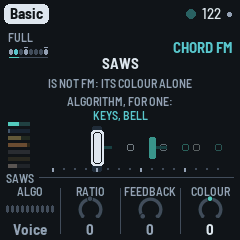
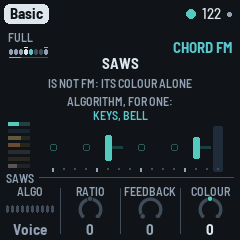
1.4.0: six parts on white 1-6 in the manual (the Arrangement page's keys: the parts, the gap, the moves, the hats' throw on black 6; the table of them; the Mix gone, each part's Level its strip's; the Kick and the Hats strips apart, their levels, the kick's sends from 0, its Low cut leaving the rumb

diff --git a/web/emu/index.html b/web/emu/index.html
@@ -138,7 +138,7 @@ kbd { font: 600 .85em ui-monospace, Menlo, monospace; background: var(--card); b
 <section class="help" aria-label="How to play it">
   <div class="knobs">
     <h2>Pages and knobs</h2>
-    <p>One page a layer, each on its own button. The levels are on <b>OCT−</b> / <b>OCT+</b> (on a layer's page: 5 a press, held on; both together, quickly: the layer muted or back) and on the Arrangement page's mix (SEL, white 6 held), whose meters show every part's level. <b>SELECT</b> is the DJ filter, on every page. The pages, as their buttons sit on the panel: Dub (FX), Chord (ENV), Bass (LFO), Setup (GLO), Form (HOME), Noise (SAVE), Pings (ARP), Drums (SEQ); the page's name is top right. A button with one page stays on it pressed again; one with several steps through them. Each layer's first page is its part (what it plays, and its <b>Vary</b>: how often that changes, Evolve over it); its button pressed again opens its <b>voice page</b>: four knobs that shape its sound, most 0 in the middle (the voice as it is), −50 to +50 (the chord's Attack and the pings' Bend 0 to 100, from the voice's own); the drums have two, Kick and Hats. A third press opens its <b>FM page</b>: the algorithm (drawn on the screen), the upper operators' ratio, the feedback (on an FM voice); the chord's has its <b>Colour</b> too and the bass's its <b>Bite</b>, on every voice. The chord's four pages: <b>Chord</b> (Density, Throws, Change, Vary), <b>Chord voice</b> (Cutoff, Reso, Attack, Decay), <b>Chord FM</b> (Algo, Ratio, Feedback, Colour) and <b>Chord LFO</b>, its slow movement: a wave in time with the music (Depth; Rate, 1 to 32 bars; Shape) and <b>Drift</b>, a slow random wander under it, like a hand riding the filter (the screen draws the path over the last 16 bars); ALGORITHM there picks where it goes, its <b>Destination</b>: Cutoff, Reso or Colour, the knob it moves showing it. The noise has one too (SAVE a third time); the bass and the pings have none. A knob centred on 0 stops there on its way through (three clicks to leave it). On a layer's page, <b>ALGORITHM</b> changes its voice (the chord: Saws, Keys, Organ, Pad, Bell, Tonewheel, Noise; the pings: Blip, Marimba, Glass, Wood, Drop; the bass: Sub, Punch, Rubber, Pluck, Growl; the drums' kit: Tight, Deep, Punch, Soft, Dusty). Each piece remembers its own settings.</p>
+    <p>One page a layer, each on its own button. The levels are on <b>OCT−</b> / <b>OCT+</b> (on a layer's page: 5 a press, held on; both together, quickly: the layer muted or back) and on the Arrangement page's channel strips (SEL, a part's white key held: its Level), whose meters show every part's level. <b>SELECT</b> is the DJ filter, on every page. The pages, as their buttons sit on the panel: Dub (FX), Chord (ENV), Bass (LFO), Setup (GLO), Form (HOME), Noise (SAVE), Pings (ARP), Drums (SEQ); the page's name is top right. A button with one page stays on it pressed again; one with several steps through them. Each layer's first page is its part (what it plays, and its <b>Vary</b>: how often that changes, Evolve over it); its button pressed again opens its <b>voice page</b>: four knobs that shape its sound, most 0 in the middle (the voice as it is), −50 to +50 (the chord's Attack and the pings' Bend 0 to 100, from the voice's own); the drums have two, Kick and Hats. A third press opens its <b>FM page</b>: the algorithm (drawn on the screen), the upper operators' ratio, the feedback (on an FM voice); the chord's has its <b>Colour</b> too and the bass's its <b>Bite</b>, on every voice. The chord's four pages: <b>Chord</b> (Density, Throws, Change, Vary), <b>Chord voice</b> (Cutoff, Reso, Attack, Decay), <b>Chord FM</b> (Algo, Ratio, Feedback, Colour) and <b>Chord LFO</b>, its slow movement: a wave in time with the music (Depth; Rate, 1 to 32 bars; Shape) and <b>Drift</b>, a slow random wander under it, like a hand riding the filter (the screen draws the path over the last 16 bars); ALGORITHM there picks where it goes, its <b>Destination</b>: Cutoff, Reso or Colour, the knob it moves showing it. The noise has one too (SAVE a third time); the bass and the pings have none. A knob centred on 0 stops there on its way through (three clicks to leave it). On a layer's page, <b>ALGORITHM</b> changes its voice (the chord: Saws, Keys, Organ, Pad, Bell, Tonewheel, Noise; the pings: Blip, Marimba, Glass, Wood, Drop; the bass: Sub, Punch, Rubber, Pluck, Growl; the drums' kit: Tight, Deep, Punch, Soft, Dusty). Each piece remembers its own settings.</p>
     <div class="pages">
       <div>
         <h3>Form <span>HOME</span></h3>
@@ -202,7 +202,7 @@ kbd { font: 600 .85em ui-monospace, Menlo, monospace; background: var(--card); b
       <li><b>Keys</b> are the scale: each one adds or removes its note. The root stays. A lit key (a pressed one, to a screen reader) is in the scale.</li>
       <li><b>PLAY</b> plays / rests. <b>REC</b> tapped: dub hold, the echo and the cloud repeat what they hold; held: the <b>effects grid</b>, sixteen effects on the white keys (echo: Throw, Time x2, Tape stop, Swell; filter: Low, High, Wah, Phone; space: Verb, Crash, Freeze, Wash; rhythm: Stutter, Gate, Siren, Riser). <b>EDIT</b> a tap: the Chords page; held: the next chord, on the next bar; held on: new chords. Every long press says what it did on a card in the middle.</li>
       <li><b>SELECT</b> the DJ filter, on every page (left shut, right open, Off in the middle); with <b>HOME</b> held, the tempo. <b>ALGORITHM</b> on a layer's page its voice, on the Chord LFO page its Destination (Cutoff, Reso, Colour), on the Chords page the walk (Home, Wander, Free), elsewhere the screen (ripples, scope, spectrum); the mode is on the Key page (HOME again); <b>PRESETS</b> the piece (each remembers how you left it).</li>
-      <li><b>SEL</b> the Arrangement page: the screen a desk's meters, a row a part (the chord, the pings, the bass, the drums, the noise) and the master, each its level's notch on it, a mute dark, a solo dimming the rest, the duck's gain reduction under the master (a red <b>!</b> in the header, on any page, while the master clips); the knobs <b>Energy</b> (the pings, shaker and stabs thinner or busier), <b>Mixer</b> (grey: to come), <b>Wet</b> (the whole music dry, or drowned in the echo), Energy and Wet 0 in the middle, and <b>Duck</b> (how far each beat pushes the rest down, the piece's own); hold white 6 (the slowly blinking key) and they are the mix (chord, pings, bass, drums). The white keys 1–5, a tap, mute and bring back the chord, pings, bass, kick and hats (their levels kept: the same mutes as OCT− + OCT+); held, they are a part's <b>channel strip</b> (the chord, the pings, the bass, the drums, the noise, as the meters' rows): <b>Level</b>, <b>Echo</b> send, <b>Plate</b> send (50 as the piece sends, 0 none, 100 twice) and <b>Low cut</b> (a gentle high-pass before the sends, off at 0), and the black keys 1–5 above them solo them; white 7–11, held, throw every stab into the echo, push the filter open, shut it, drop the floor (the kick and the bass), push the echo. The keys that do something are lit. A page's button leaves it: the keys are the scale again (the mutes and solos stay). Hold SEL: <b>Lock</b>, each phrase keeping the kick, the drums' and the bass's plan and the noise's groove (hold again: off).</li>
+      <li><b>SEL</b> the Arrangement page: the screen a desk's meters, a row a part (the chord, the pings, the bass, the kick, the hats, the noise) and the master, each its level's notch on it, a mute dark, a solo dimming the rest, the duck's gain reduction under the master (a red <b>!</b> in the header, on any page, while the master clips); the knobs <b>Energy</b> (the pings, shaker and stabs thinner or busier), <b>Mixer</b> (grey: to come), <b>Wet</b> (the whole music dry, or drowned in the echo), Energy and Wet 0 in the middle, and <b>Duck</b> (how far each beat pushes the rest down, the piece's own). The white keys 1–6, a tap, mute and bring back the chord, pings, bass, kick, hats and noise (their levels kept: the same mutes as OCT− + OCT+); held, they are a part's <b>channel strip</b> (as the meters' rows): <b>Level</b>, <b>Echo</b> send, <b>Plate</b> send (50 as the piece sends, 0 none, 100 twice; the kick's from 0) and <b>Low cut</b> (a gentle high-pass before the sends, off at 0), and the black keys 1–5 solo the chord, pings, bass, kick and hats; black 6, held, throws the hats (with the rim and the clap) into the echo, the kick never; white 7 is dark, the gap; white 8–12, held, throw every stab into the echo, push the filter open, shut it, drop the floor (the kick and the bass), push the echo. The keys that do something are lit. A page's button leaves it: the keys are the scale again (the mutes and solos stay). Hold SEL: <b>Lock</b>, each phrase keeping the kick, the drums' and the bass's plan and the noise's groove (hold again: off).</li>
       <li><b>OCT−</b> / <b>OCT+</b> on a layer's page (Chord, Pings, Bass, Drums, Noise, and their other pages) its level, 5 a press (held: on); both together and let go within a second, the layer muted or back, its level kept (as the Arrangement page's white 1–5; held 5 s on the FM-1: the update mode). Elsewhere they do nothing. <b>SAVE</b> the Noise page (again: Noise voice; again: Noise LFO; held: a nudge to the noise); <b>GLO</b> held saves (held on: the piece back to its recipe).</li>
       <li>Hold a layer's button (ENV, ARP, LFO, SEQ) for half a second: a <b>nudge</b>, its sound a small step somewhere new, pulled back to the piece's (with a mouse: <kbd>Shift</kbd>-click to hold it, click again to let go).</li>
     </ul>
@@ -338,7 +338,7 @@ function hit(c, cls, attrs, parent = controls) {
 }
 // what each control does (the Buttons list below says the same); a page button's light is its page, PLAY's
 // playing, REC's dub hold: those are toggle buttons (aria-pressed), the others plain ones
-const TIP = { FX: "The Dub page: the echo and the plate; again, the Echo page (Blur, Tone, Width, Size).", SEL: "The Arrangement page: every part's level on a meter; the knobs are Energy, Mixer (to come), Wet and Duck (hold white 6: the mix); the white keys 1 to 5 mute the layers (held: that part's channel strip, its Level, Echo, Plate and Low cut), the black keys 1 to 5 solo them, and white 7 to 11, held, make the dub moves. Held: Lock, the groove kept phrase after phrase.", ENV: "The Chord page (Density, Throws, Change, Vary); again, Chord voice (Cutoff around the piece's own, Reso, Attack, Decay); again, Chord FM (Algo, Ratio, Feedback, Colour); again, Chord LFO (Depth, Rate, Shape, Drift; ALGORITHM its Destination).", LFO: "The Bass page (Groove, Vary, Density, Fifth); again, Bass voice (Octave, Shape, Gate, Glide); again, Bass FM (Algo, Ratio, Feedback, Bite).", EDIT: "A tap: the Chords page, eight slots (KNOB 1 the slot, the keys its root, KNOB 2 its kind, KNOB 3 its type, KNOB 4 Play: Endless, the walk writing slot 8 as they move up, or Loop, the eight in turn). Held: the next chord.",
+const TIP = { FX: "The Dub page: the echo and the plate; again, the Echo page (Blur, Tone, Width, Size).", SEL: "The Arrangement page: every part's level on a meter; the knobs are Energy, Mixer (to come), Wet and Duck; the white keys 1 to 6 mute the parts (the chord, pings, bass, kick, hats, noise; held: that part's channel strip, its Level, Echo, Plate and Low cut), the black keys 1 to 5 solo them, black 6 held throws the hats into the echo, white 7 is the gap, and white 8 to 12, held, make the dub moves. Held: Lock, the groove kept phrase after phrase.", ENV: "The Chord page (Density, Throws, Change, Vary); again, Chord voice (Cutoff around the piece's own, Reso, Attack, Decay); again, Chord FM (Algo, Ratio, Feedback, Colour); again, Chord LFO (Depth, Rate, Shape, Drift; ALGORITHM its Destination).", LFO: "The Bass page (Groove, Vary, Density, Fifth); again, Bass voice (Octave, Shape, Gate, Glide); again, Bass FM (Algo, Ratio, Feedback, Bite).", EDIT: "A tap: the Chords page, eight slots (KNOB 1 the slot, the keys its root, KNOB 2 its kind, KNOB 3 its type, KNOB 4 Play: Endless, the walk writing slot 8 as they move up, or Loop, the eight in turn). Held: the next chord.",
   GLO: "The Setup page. Held: saves all eight pieces; held on: the piece back to its recipe.", HOME: "The Form page; again, the Key page (tempo, root, mode, swing). Held on (1.5 s): a shake of everything. Hold it and turn SELECT for the tempo.", SAVE: "The Noise page: Density, Vary; ALGORITHM its character. Again: Noise voice (Air, Tone, Decay, Width); again: Noise LFO (Depth, Rate, Shape, Drift). Held: a nudge to the noise; held on: a shake.",
   ARP: "The Pings page (Density, Vary, Cloud); again, Pings voice (Octave, Tone, Length, Bend); again, Pings FM (Algo, Ratio, Feedback, Upper).", SEQ: "The Drums page (Kick, Hits, Vary). Again: Kick (Tune, Length, Punch, Rumble); again: Hats (Level, Tone, Length); again: the Pattern page (five lanes, sixteen steps on the white keys).", PLAY: "Play or rest.", REC: "Tap: dub hold (the echo and the cloud repeat what they hold; the chord holds). Hold: the effects grid, played on the white keys.",
   "OCT-": "On a layer's page, its level down (held: on). With OCT+, quickly: the layer muted or back.", "OCT+": "On a layer's page, its level up (held: on). With OCT-, quickly: the layer muted or back.", SELECT: "The DJ filter, on every page: left shut, right open, Off in the middle. With HOME held, the tempo.",

diff --git a/docs/MANUAL.md b/docs/MANUAL.md
@@ -105,15 +105,15 @@ The drawing at the top shows them all; here they are in more detail.
 | PLAY | Play / rest. DUB-1 starts playing by itself when it's switched on. At rest, the echo's feedback eases under 90% so its tails die away, the reverb rings out and the noise fades. Playing again starts from the first bar of a phrase. Lit while playing. |
 | REC | A tap: **dub hold**: the echo stops listening and repeats what it holds, sample for sample, for ever; the reverb stops listening too and rings on; the chord doesn't move. The stabs, pings and drums go on, dry, above it. Tap again to let go. Lit while held. Held: the **effects grid** (below). |
 | EDIT | A tap: the **Chords page** (below): the eight chords coming, to see and change (again, it stays). Held (half a second): the next chord, at the start of the next bar (at once while resting; in dub hold, once you let go); a card says NEXT CHORD until the chord changes. Held on (1.5 s): **new chords**, the walk's all walked again (yours, the gaps and the one playing kept); a red card, NEW CHORDS. |
-| SEL | A tap: the **Arrangement page** (PERFORM's until 1.4.0): the screen shows each part's level on a desk's meters, the knobs are Energy, Mixer (to come), Wet and Duck, and the keys stop being the scale: they mute and solo the layers, make the dub moves, and white 6 held puts the mix on the knobs (see below). Again, it stays; a page's button or SELECT leaves it. Lit while on. **Held** (half a second), on any page: **Lock** on or off (below). |
+| SEL | A tap: the **Arrangement page** (PERFORM's until 1.4.0): the screen shows each part's level on a desk's meters, the knobs are Energy, Mixer (to come), Wet and Duck, and the keys stop being the scale: they mute and solo the parts (white 1–6 held: a part's channel strip), make the dub moves and throw the hats (see below). Again, it stays; a page's button or SELECT leaves it. Lit while on. **Held** (half a second), on any page: **Lock** on or off (below). |
 | HOME | The **Form** page (Dub until 1.4.0): how the piece unfolds (Energy, Evolve, Motion). Again: the Key page (tempo, root, mode, swing), and again back to Form; HOME blinks on the Key page. Held on for 1.5 s (nothing turned meanwhile): **a shake of everything**, the chord, the pings, the bass, the drums and the noise at once ("SHAKE ALL"), the page kept; again and again, to explore until something sounds right. Held with SELECT turned: the tempo. |
 | ENV · ARP · LFO · SEQ | The layers' pages: Chord, Pings, Bass, Drums, each its part (see [The pages](#8-the-pages)). Again: the layer's voice page (**Chord voice**, **Pings voice**, **Bass voice**; the drums' **Kick**), then its FM page or, for the drums, the **Hats** page and then the Pattern page, then back. The chord has one more: after its FM page (for every chord voice: its Colour is there), the **Chord LFO** page, then back. Held (half a second): a **nudge** to the layer's sound; held on (1.5 s): a **shake** (below). |
 | FX · GLO | The **Dub** page, the echo and the plate (Space until 1.4.0; FX again: the **Echo page**, FX blinking; again, back); the Setup page, for what holds for every piece (GLO again, it stays). The lit button shows the page. FX held: a nudge to the space; held on: a shake (a new echo time). **GLO held** (half a second, then let go): **saves** all eight pieces (a card, SAVED); held on (1.5 s): the piece back to its recipe (a red card, RESET). |
 | SELECT | **The DJ filter**, on every page (its only place since 1.4.0's Chord pages; the Arrangement page's Open and Shut keys push on top of it): left shuts it (a low-pass, under water), right opens it (a high-pass, thin and bright), Off in the middle, where it stops on its way through (three clicks to leave it). While it turns, a big ring in the middle shows it (FILTER over it, the amount inside, Shut or Open under it); the page stays. Hold HOME and turn it for the tempo, from any page. The pages are on their buttons; the page's name, top right, says where you are. |
 | ALGORITHM | On a layer's page (Chord, Pings, Bass, Drums): that layer's **voice** (see [The voices](#the-voices)). On the Noise pages: its character. On the Chord LFO page: where the chord's LFO goes, its **Destination** (Cutoff, Reso, Colour). On the Chords page: the walk's character (Home, Wander, Free). Anywhere else: the middle of the screen, as ripples, a scope or a spectrum (see [The screen](#4-the-screen)). The mode, a piece's choice, is on the Key page (HOME again). |
 | PRESETS | The piece (see [The pieces](#7-the-pieces)). |
-| KNOB 1–4 | The four values on the screen. A few clicks are always single steps; a quick turn speeds up, so half a turn sweeps the range. While a knob turns, its value shows large in the middle of the screen, in a big ring with its name and what it does under it (on the Chords and Pattern pages, and the Mix (white 6 held on the Arrangement page), which show the change themselves, the line above the knobs says what it does). A **centred** knob (0 in the middle: the voice pages' −50…+50 ones, the chord's Cutoff, the Noise voice's Tone, the Filter, Energy (the Form and the Arrangement pages') and the Arrangement page's Wet) has a **notch** at 0: turning through, it stops there, and to leave it takes three clicks the same way (the first two are held back). A switch shows its positions as dots, up to ten (Change, Mode, Algo). A grey knob does nothing there. |
-| OCT− / OCT+ | On a layer's page (Chord, Pings, Bass, Drums or Noise, and their voice, FM, Hats and Pattern pages, and the Noise pages): that layer's **level**, 5 down or up a press (a big ring in the middle, in the layer's colour, BASS over it, the level inside, until a second after the last press); held, it keeps going. **Both together**, let go within a second: the layer **muted** ("BASS MUTED"), its level kept; again, back ("BASS ON"). The drums mute the kick and the hats together. These are the Arrangement page's mutes (white 1–5): a mute made here shows there, and the other way round. Held together for five seconds: the update mode (see [Troubleshooting](#11-troubleshooting)); a long press never mutes. On the other pages they do nothing. (The pings' octave is on the Pings voice page, KNOB 1.) |
+| KNOB 1–4 | The four values on the screen. A few clicks are always single steps; a quick turn speeds up, so half a turn sweeps the range. While a knob turns, its value shows large in the middle of the screen, in a big ring with its name and what it does under it (on the Chords and Pattern pages, which show the change themselves, the line above the knobs says what it does). A **centred** knob (0 in the middle: the voice pages' −50…+50 ones, the chord's Cutoff, the Noise voice's Tone, the Filter, Energy (the Form and the Arrangement pages') and the Arrangement page's Wet) has a **notch** at 0: turning through, it stops there, and to leave it takes three clicks the same way (the first two are held back). A switch shows its positions as dots, up to ten (Change, Mode, Algo). A grey knob does nothing there. |
+| OCT− / OCT+ | On a layer's page (Chord, Pings, Bass, Drums or Noise, and their voice, FM, Hats and Pattern pages, and the Noise pages): that layer's **level**, 5 down or up a press (a big ring in the middle, in the layer's colour, BASS over it, the level inside, until a second after the last press); held, it keeps going. **Both together**, let go within a second: the layer **muted** ("BASS MUTED"), its level kept; again, back ("BASS ON"). The drums mute the kick and the hats together. These are the Arrangement page's mutes (white 1–6): a mute made here shows there, and the other way round. Held together for five seconds: the update mode (see [Troubleshooting](#11-troubleshooting)); a long press never mutes. On the other pages they do nothing. (The pings' octave is on the Pings voice page, KNOB 1.) |
 | MASTER | Volume. |
 | SAVE | The **Noise page** (below: its part); again, the **Noise voice** (its Air, Tone, Decay and Width; SAVE blinks); again, **Noise LFO** (its filter's wave and drift); again, back to the Noise page. (Its sends are its channel strip's, on the Arrangement page.) Held: a nudge to the noise; held on (1.5 s): a shake (another noise character). Saving is on GLO. |
 
@@ -148,23 +148,25 @@ kick ducks it fully; a beat without one a little less, and less again while the 
 kick out (a Break), so the music keeps breathing (the ghost duck). The noise is ducked deeper than
 the music.
 
-![The Arrangement page: six rows of green LED segments, CHD, PNG, BAS, DRM, NOI and MST, each with a white fader marker, the drums' and the master's reaching yellow; under the master, DUCK, its orange segments from the right; ENERGY 0, MIXER grey, WET 0, DUCK 80](img/screen-perform.png "The Arrangement page")
+![The Arrangement page: seven rows of green LED segments, CHD, PNG, BAS, KCK, HAT, NOI and MST, each with a white fader marker, the kick's and the master's reaching yellow; under the master, DUCK, its orange segments from the right; ENERGY 0, MIXER grey, WET 0, DUCK 80](img/screen-perform.png "The Arrangement page")
 
-**The meters.** A row a part, top to bottom: the chord (CHD), the pings (PNG), the bass (BAS), the
-drums (DRM: the kick and the hats, the rim and the clap), the noise (NOI), and under them the master
-(MST). Each row is a meter of LED segments, left to right, from −48 dB to 0 dB, 2 dB a segment:
+**The meters.** A row a part, top to bottom, as the white keys 1–6: the chord (CHD), the pings (PNG),
+the bass (BAS), the kick (KCK), the hats (HAT: the shaker and the open hat, with the rim and the clap),
+the noise (NOI), and under them the master (MST). Each row is a meter of LED segments, left to right, from −48 dB to 0 dB, 2 dB a segment:
 
 - **The lit segments:** the part's level as it plays, its peaks: up at once, falling back at about
   20 dB a second. The parts are measured dry, as each goes into the mix (their echo and plate are
   in the master, not in their rows), before the duck; the master as it goes out, after MASTER.
 - **A lone segment above them:** the peak held, for a second; then it falls back.
-- **The white notch** through a row: the part's level setting (its knob: OCT− / OCT+ on its page, or
-  the Mix page's), as a fader's position, 0 at the left, 100 at the right. Turn a level and it moves.
+- **The white notch** through a row: the part's level setting (its strip's Level, below; OCT− / OCT+ on
+  its page), as a fader's position, 0 at the left, 100 at the right. Turn a level and it moves. The
+  kick's and the hats' are their own faders, 50 in the middle as the piece has them; the drums' level
+  (OCT− / OCT+ on the Drums pages) moves both.
 - **Colours** (two builds to try): *classic*, green, yellow from −12 dB, red in the top 4 dB, on
   every row; or *the layers'*, each row in its layer's colour (the master white), its top two
   segments amber and red.
 - **A muted part's row is dark** (its notch kept, grey); with a **solo** on, the rows soloed out are
-  dimmed, the one you hear bright. (The noise has no solo key: it plays on under a solo.)
+  dimmed, the one you hear bright. (The noise has no solo key: a solo quiets it with the rest.)
 - **DUCK**, under the master, a row as the others: the duck, as a compressor's gain reduction, eating segments from the
   right with each kick (2 dB a segment): on the bass while it plays (the deepest, the pump you
   hear), else on the rest of the music. Duck at 0, it stays dark.
@@ -172,56 +174,63 @@ drums (DRM: the kick and the hats, the rim and the clap), the noise (NOI), and u
   a red **!** lights in the header, on every page, for a second (turn MASTER or a level down).
 
 On the Arrangement page, each key says what it did on a card in the middle for a moment (under a second, so the
-meters under it show the effect): a mute ("PINGS muted",
-in the layer's colour), a solo, a move as you press it ("THROW: every stab into the echo"), the mix.
+meters under it show the effect): a mute ("PINGS muted", in the part's colour), a solo, a move as you press it
+("THROW: every stab into the echo"). A page's button **leaves the Arrangement page**: the keys are the scale again
+(the mutes and solos stay), and SEL brings it back.
 
-**Hold white 6** for the **Mix** page: KNOB 1–4 the levels of the chord, the pings, the bass and the
-drums (the same levels OCT− / OCT+ set on each layer's page), until you let go. A muted layer's knob
-is grey, its level kept; the meters' notches move as you turn. A page's button **leaves the
-Arrangement page**: the keys are the scale again (the mutes and solos stay), and SEL brings it back.
-
-**Hold white 1–5** for a part's **channel strip**, as on a mixing desk: KNOB 1–4 that part's
+**Hold white 1–6** for a part's **channel strip**, as on a mixing desk: KNOB 1–4 that part's
 **Level**, **Echo** send, **Plate** send and **Low cut**, until you let go. White 1 the chord, 2 the
-pings, 3 the bass, 4 the drums (the kick's key), 5 the noise (the hats' key): the meters' rows, top
-to bottom. The strip comes up after a third of a second held, or at once if you turn a knob; its
-name shows at the top right ("CHORD STRIP"), its row on the meters is lit behind, its knobs are in
-its colour, and the big ring names what you turn ("CHORD ECHO"). Let go and you're back on the
-Arrangement page. A **tap** still mutes the layer, as before: the mute comes as you let go (a hold
-mutes nothing).
+pings, 3 the bass, 4 the kick, 5 the hats (with the rim and the clap), 6 the noise: the meters' rows,
+top to bottom. The strip comes up after a third of a second held, or at once if you turn a knob; its
+name shows at the top right ("KICK STRIP"), its row on the meters is lit behind, its knobs are in
+its colour, and the big ring names what you turn ("HATS ECHO"). Let go and you're back on the
+Arrangement page. A **tap** still mutes the part: the mute comes as you let go (a hold mutes nothing).
+(Until 1.4.0's last builds, white 6 held was the Mix page, the four levels on the knobs: each part's
+Level is its strip's now, the noise's too.)
 
 ![A channel strip: white 1 held, the chord's: its meter row lit, CHORD ECHO 60 in the big ring, LEVEL 52, ECHO 60, PLATE 50, LOW CUT 0](img/screen-strip.png "A channel strip")
 
 | Knob | What it does |
 |---|---|
-| KNOB 1 · **Level** | the part's level: the same as OCT− / OCT+ on its page, and the Mix's (the noise's too) |
-| KNOB 2 · **Echo** | how much it sends into the echo: 50 as the piece sends it, 0 none, 100 twice as much (+6 dB). The bass sends none in every piece (0): turn it up for a dub bass throw. The drums' is the hats', the rim's and the clap's (the kick never goes into the echo) |
-| KNOB 3 · **Plate** | how much it sends into the plate, the same way: 50 the piece's, 0 none, 100 twice |
-| KNOB 4 · **Low cut** | a gentle high-pass (6 dB an octave) on the part, before its sends: 0 off, then from about 20 Hz up to about 600 Hz at 100, an octave every 20 or so. The chord keeps its own gentle cut at about 160 Hz under it; the drums' takes the kick's lows too, but not the rumble (its own knob, on the Kick page) |
+| KNOB 1 · **Level** | the part's level: the same as OCT− / OCT+ on its page (the noise's too). The kick's and the hats' are their own: 50 as the piece has them (×1), about 12 dB down at 0 and 12 dB up at 100; the hats' is the Hats page's Level (the shaker and the open hat; the rim and the clap go with the drums' level, OCT− / OCT+ on the Drums pages, which moves the kick and the hats too) |
+| KNOB 2 · **Echo** | how much it sends into the echo: 50 as the piece sends it, 0 none, 100 twice as much (+6 dB). The bass sends none in every piece (0): turn it up for a dub bass throw. The hats' is the hats', the rim's and the clap's. The kick sends none in every piece (0): turn it up and it goes into the echo too (100 a full send) |
+| KNOB 3 · **Plate** | how much it sends into the plate, the same way: 50 the piece's, 0 none, 100 twice (the kick's from 0, as its Echo) |
+| KNOB 4 · **Low cut** | a gentle high-pass (6 dB an octave) on the part, before its sends: 0 off, then from about 20 Hz up to about 600 Hz at 100, an octave every 20 or so. The chord keeps its own gentle cut at about 160 Hz under it; the kick's leaves the rumble be (its own knob, on the Kick page) |
+
+![The Kick strip: white 4 held, its meter row lit, KICK LOW CUT 20 in the big ring, LEVEL 50, ECHO 0, PLATE 0, LOW CUT 20](img/screen-strip-kick.png "The Kick strip")
+
+![The Hats strip: white 5 held, HATS ECHO 60 in the big ring, LEVEL 40, ECHO 60, PLATE 50, LOW CUT 0](img/screen-strip-hats.png "The Hats strip")
+
+![The Noise strip: white 6 held, NOISE PLATE 60 in the big ring, LEVEL 8, ECHO 50, PLATE 60, LOW CUT 0](img/screen-strip-noise.png "The Noise strip")
 
 A thrown stab still goes into the echo whatever the chord's Echo, and the Arrangement page's Wet
 moves everything on top. The strips are the piece's, saved with it.
 A page's button goes to its page (HOME: the Form page). The keys, from the lowest up,
-are three sets, with white 6 between them. Each key that does something is lit:
+are the parts, an empty white key, then the moves. Each key that does something is lit:
 
-| | 1 | 2 | 3 | 4 | 5 | 6 | 7 | 8 | 9 | 10 | 11 |
-|---|---|---|---|---|---|---|---|---|---|---|---|
-| **Black keys:** solo | Chord | Pings | Bass | Kick | Hats | | | | | | |
-| **White keys:** mute, mix, moves | Chord | Pings | Bass | Kick | Hats | Mix (held) | Throw | Open | Shut | Drop | Echo |
+| | 1 | 2 | 3 | 4 | 5 | 6 | 7 | 8 | 9 | 10 | 11 | 12 |
+|---|---|---|---|---|---|---|---|---|---|---|---|---|
+| **Black keys:** solo, the hats' throw | Chord | Pings | Bass | Kick | Hats | Hats throw (held) | | | | | | |
+| **White keys:** parts, moves | Chord | Pings | Bass | Kick | Hats | Noise | — | Throw | Open | Shut | Drop | Echo |
 
-The first five black keys (F♯ G♯ A♯, C♯ D♯) sit above the five mutes, like a mixer's channel strip.
+The first five black keys (F♯ G♯ A♯, C♯ D♯) are the solos; the sixth (F♯, the next octave's) sits
+just above Throw, the hats' throw beside the stabs'. White 7 (E) is dark and does nothing: the gap
+between the parts and the moves, so you can find them without looking.
 
-- **White 6, held:** the Mix page on the knobs. It blinks slowly on the Arrangement page, so it's easy to find, and goes dark while held. The mutes still act
-  while you hold it.
-- **White 1–5, the chord, pings, bass, kick and hats:** a tap mutes the layer, another brings it
-  back (the mute as you let go: held, the key is the part's channel strip, above); lit while it plays. The levels stay as they are (a true mute: the Mix knobs don't move). They
+- **White 1–6, the chord, pings, bass, kick, hats and noise:** a tap mutes the part, another brings it
+  back (the mute as you let go: held, the key is the part's channel strip, above); lit while it plays.
+  The levels stay as they are (a true mute: the strips' Levels don't move). They
   are the same mutes as OCT− + OCT+ on a layer's page (there, the drums' mute is the kick's and the
   hats' together): a mute made either way shows on the other. The mutes stay when you leave the Arrangement page.
-  The music goes on underneath: a muted layer comes back where it would have been.
-- **Black 1–5, solos:** a press solos the layer: the others go quiet (their echoes and reverb ring
-  out). Solo more than one and they play together; press
+  The music goes on underneath: a muted part comes back where it would have been.
+- **Black 1–5, solos:** a press solos the layer: the others go quiet, the noise too (their echoes and
+  reverb ring out). Solo more than one and they play together; press
   again to let one go. A soloed key blinks; the white keys show what you hear. SOLO shows top right,
   beside the page's name. Solos stay when you leave the Arrangement page, as the mutes do.
-- **White 7–11, moves, held** (lit; dark while held):
+- **Black 6, the hats thrown, held** (lit; dark while held): the hats, the rim and the clap go into the
+  echo, whatever their strip's Echo, and the echo feeds back a little more; let go and their repeats
+  ring on. The kick is never thrown with them.
+- **White 8–12, moves, held** (lit; dark while held):
   - **Throw:** every stab is thrown into the echo.
   - **Open:** the music thins and brightens over the kick: a resonant high-pass on everything but
     the kick sweeps up to about 400 Hz, and the chords' filter opens three octaves and sings, the
@@ -413,7 +422,7 @@ GLO held on, RESET (red); SEL held, LOCK. Evolve's own nudges show no card.
   switch, its positions as dots) and the value. The one you're turning lights up, and while it
   turns, the rule says what it does ("HOW LONG THE REPEATS GO ON"); a moment after, the rule is
   back. A grey knob does nothing here (on an FM page, the voice not FM, the Chord FM page's Colour
-  still turning; or Ratio on a two-operator algorithm; on the Mix page, a muted layer's).
+  still turning; or Ratio on a two-operator algorithm).
 - **The cards:** a long press's card, in the middle (see [The cards](#3-controls)).
 - **The big ring:** a knob turning, in the middle: its value large inside, its name over it in large
   capitals, in its layer's colour (teal elsewhere; the page's name steps aside for it), and under the
@@ -649,8 +658,8 @@ noise's groove (drawn anew, or kept).
 
 The layers' **levels** aren't on their pages: OCT− / OCT+ set them on each layer's pages (the
 noise's on the Noise pages), 5 a press, and both together mute it (see
-[Controls](#3-controls)); the Arrangement page's Mix (white 6 held) has the four together, and its meters show them all.
-Each part's level, its sends and its Low cut are also its **channel strip** there (white 1–5 held).
+[Controls](#3-controls)); the Arrangement page's meters show them all, and each part's level, its sends and its
+Low cut are its **channel strip** there (white 1–6 held: the kick and the hats each their own).
 
 ### The voices
 
@@ -1050,8 +1059,9 @@ Swing is on the Key page (HOME, then HOME again).
 ![The Hats page: TIGHT, LEVEL 40, TONE 0, LENGTH 0, the fourth knob empty](img/screen-hats.png "The Hats page")
 
 - **Level:** the shaker and the open hat against the kick: at 50, as the pieces have them; about
-  12 dB down at 0 and 12 dB up at 100. The drums' level (OCT− / OCT+, the Mix page) moves the kick,
-  the hats and the rim together.
+  12 dB down at 0 and 12 dB up at 100. The same as the Hats strip's Level (white 5 held on the
+  Arrangement page); the kick's is the Kick strip's (white 4). The drums' level (OCT− / OCT+ on the
+  Drums pages) moves the kick, the hats, the rim and the clap together.
 - **Tone:** how dark or bright the hats are, around the piece's own colour (−50 to +50).
 - **Length:** how long the shaker and the open hat ring, from about half the kit's to twice.
 
@@ -1190,7 +1200,9 @@ played before), and a chord Cutoff you had set (then a 0–100 knob) is kept as 
 the piece's own (as far as the knob goes, ±50). From 1.4.0's layers' pages (format 22), the channel
 strips' sends and Low cuts come from the recipe (the sends 50, as they sent before; the bass's Echo
 0; the Low cuts off), and the noise's Width, Plate and Echo (the Noise space page's) are kept, now
-on the Noise voice and the noise's strip. To get a changed piece's
+on the Noise voice and the noise's strip. From 1.4.0's channel strips (format 23, the drums one strip),
+the drums' strip is the Hats strip, its sends and Low cut kept, and the Kick strip comes in at its level
+×1 with no sends, its Low cut the drums' (as it sounded: that one cut the kick too). To get a changed piece's
 whole new recipe, hold GLO for 1.5 s on it.
 Projects saved by AMB-1 aren't read by DUB-1: the first start after installing it begins with the
 eight recipes.
@@ -1312,8 +1324,8 @@ The defaults are Basic's; each piece has its own.
 | Arrangement | Energy, Wet | −100 – 0 – +100; for playing, not saved | 0 |
 | Arrangement | Mixer | (to come) | |
 | Arrangement | Duck | 0–100 (to −12 dB); the piece's, saved | 50 |
-| Strip (white 1–5 held) | Level | the layer's level (as OCT− / OCT+) | 52, 30, 68, 80, 8 |
-| Strip | Echo, Plate | 0–100 (0 none – 50 as the piece sends – 100 twice) | 50 (the bass's Echo 0) |
+| Strip (white 1–6 held) | Level | the part's level (as OCT− / OCT+; the kick's and the hats' their own, ×1 at 50) | 52, 30, 68, 50, 40, 8 |
+| Strip | Echo, Plate | 0–100 (0 none – 50 as the piece sends – 100 twice; the kick's 0 none – 100 a full send) | 50 (the bass's Echo 0, the kick's 0) |
 | Strip | Low cut | 0–100 (off – about 20 Hz at 1 – about 600 Hz) | 0 |
 | SEL held | Lock | Off, On; not saved | Off |
 | ALGORITHM | Screen (all pages but a layer's, the Noise pages and the Chords page) | Ripples, Scope, Spectrum | Ripples |
@@ -1337,7 +1349,7 @@ The defaults are Basic's; each piece has its own.
 | Chord LFO | Rate | 1, 2, 4, 8, 16, 32 bars | 4 bars |
 | Chord LFO | Shape | Sine, Triangle, Ramp up, Ramp down | Sine |
 | Chord LFO | Drift | 0–100 (the slow random wander: to ±0.6 octave) | 30 |
-| OCT− / OCT+ (a layer's page), Mix (Arrangement, white 6) | Levels: chord, pings, bass, drums (and the noise: OCT on its page) | 0–100, 5 a press | 52, 30, 68, 80 (noise 8) |
+| OCT− / OCT+ (a layer's page), a strip's Level (Arrangement, white 1–6 held) | Levels: chord, pings, bass, drums, noise (a strip: its part's) | 0–100, 5 a press | 52, 30, 68, 80 (noise 8) |
 
 Set by the piece (no knob of its own): the pings' tone (from a round blip to a metallic clank;
 the Pings voice page's Tone moves it), the hats' colour (the Hats page's Tone moves it) and how far

diff --git a/README.md b/README.md
@@ -31,7 +31,7 @@ installer can reach.
 |---|---|
 | Keys | The scale: each key adds its note or takes it out |
 | PLAY · REC · EDIT | Play / rest · a tap: dub hold, held: the effects grid (16 effects on the white keys) · a tap: the Chords page (eight slots: root, kind, type; Play Endless or Loop), held: the next chord, held on: new chords |
-| SEL | A tap: the Arrangement page: every part's level on a desk's LED meters (the chord, the pings, the bass, the drums, the noise, the master; the duck as gain reduction); the knobs Energy, Mixer (to come), Wet (the whole music dry or drowned in the echo) and the piece's Duck (white 6 held: the mix); white keys 1–5 mute the layers (their levels kept; held, the part's **channel strip**: its Level, Echo send, Plate send and Low cut on the knobs, the chord, pings, bass, drums and noise), black keys 1–5 solo them; white 7–11, held: throw, open, shut, drop (the kick and the bass), push the echo. The keys that do something are lit; a page's button leaves it. Held: **Lock**, each phrase keeping the kick, the drums' and the bass's plan and the noise's groove |
+| SEL | A tap: the Arrangement page: every part's level on a desk's LED meters (the chord, the pings, the bass, the kick, the hats, the noise, the master; the duck as gain reduction); the knobs Energy, Mixer (to come), Wet (the whole music dry or drowned in the echo) and the piece's Duck; white keys 1–6 mute the parts (their levels kept; held, the part's **channel strip**: its Level, Echo send, Plate send and Low cut on the knobs, the chord, pings, bass, kick, hats and noise), black keys 1–5 solo them, black 6 held throws the hats into the echo; white 7 is the gap; white 8–12, held: throw, open, shut, drop (the kick and the bass), push the echo. The keys that do something are lit; a page's button leaves it. Held: **Lock**, each phrase keeping the kick, the drums' and the bass's plan and the noise's groove |
 | FX · ENV · LFO · GLO / HOME · SAVE · ARP · SEQ | The pages, as the buttons sit: Dub (the echo and the plate: Echo, Echo time, Feedback in seconds, Reverb), Chord (Density, Throws, Change: how long a chord lasts, Vary: how often the stabs' pattern turns), Bass (Groove, Vary, Density, Fifth), Setup (for every piece) / Form (Energy, Evolve, Motion), Noise (Density, Vary), Pings (Density, Vary, Cloud), Drums (Kick: its shapes, Hits, Vary): each layer's part, its Vary how often it changes, Evolve over them all; KNOB 1–4 set their four values, and the line above them says what the one turning does; the page's name is top right. FX again: the Echo page (Blur, Tone, Width, Size). HOME again: the Key page (tempo, root, mode, swing). A layer's button again: its voice page (Chord voice: Cutoff around the piece's own, Reso, Attack, Decay; Pings voice: Octave, Tone, Length, Bend; Bass voice: Octave, Shape, Gate, Glide; the drums' Kick: Tune, Length, Punch, Rumble, then Hats: Level, Tone, Length). A button with one page stays on it pressed again; one with several steps through them |
 | SELECT | The DJ filter, on every page (left shut, right open, Off in the middle; a ring shows it); with HOME held, the tempo |
 | SEQ, twice, three, four times | The Kick page, the Hats page, then the **Pattern page**: five lanes (kick, shaker, open hat, rim, clap) of sixteen steps on the white keys, accents, chance |

diff --git a/PLAN.md b/PLAN.md
@@ -769,6 +769,29 @@ The UI plan (build/design/UI-REVIEW.md; the user: "I agree with the plan"), and 
     at the defaults ~+1% (the Low cuts' branches, spread over the parts; within the timings' noise), all at 50
     ~+1.5%. RAM 93,052 of 98,304. Open: white 5 taps the hats' mute but holds the noise's strip (the meters' rows;
     the noise has no mute key here): to see on the FM-1.
+  - **Six parts on white 1-6** (the user, 2026-10-25, after dub-1.4.0zj: "there's no way to work on the hats ... we
+    might need now to include the noise as a white key ... get rid of the sixth white key as a way to access the
+    parts volume"; "I'd like to act separately on the kick and the hats, so for instance I can throw the hats to the
+    echo"; "we now need an empty white key to distinguish the macros from the voices"). Built (branch dub-1.4-strips6):
+    white 1-6 the chord, pings, bass, kick, hats (with the rim and the clap), noise: a tap a mute (the noise's
+    EN_M_NOISE its own now), held its strip; the Mix (white 6 held, V_MIX) gone, its view number kept unused; white 7
+    (E4) dark, the gap; the moves on white 8-12 (F4 G4 A4 B4 C5), as they were otherwise (the user: the macros to be
+    rethought later); black 1-5 the solos as before (a solo quiets the noise too now: 0x3F); **black 6 (F#4, just
+    above Throw): the hats thrown** (EN_PF_HATTHROW: the shaker's, the open hat's, the rim's and the clap's echo sends
+    pushed while held, whatever their strip's Echo, the echo's feedback +0.08, in over ~15 ms, out over ~60 ms, the
+    tails left to ring; the kick never: +7 dB of tail on the hats alone, 0.1 dB on the kick alone). The Drums strip
+    split: the **Kick strip** (P_KLVL, its own fader x1 at 50, +-12 dB as Hats level; P_KECHO, P_KPLATE, its sends,
+    0 none as before, 100 a full send; P_KLOW its Low cut, the rumble hearing the kick before it, so never cut) and the
+    **Hats strip** (P_HATSLVL, the Hats page's Level, the shaker and the open hat; P_DECHO, P_DPLATE, P_DLOW, the
+    drums' that were: the hats', the rim's, the clap's). P_DRUMS stays the Drums pages' OCT level over both (the two
+    faders apart from each other); the rim and the clap in the Hats strip's sends and Low cut but not its Level (most
+    recipes' Hats level isn't 50: scaling them would have changed every piece). The meters six rows and the master and
+    the duck (CHD PNG BAS KCK HAT NOI MST DUCK, 14 px apart now), the engine's drums meter split (the kick its bus, the
+    rest the mix's diff). Format 24 (8-23 read; a 23's drums Low cut the kick's too, as it sounded). Bit for bit on all
+    eight pieces against dcf886e; host CPU ~0% (-0.3%, the timings' noise); RAM 94,248 of 98,304 (+1.2 KB: the kick
+    before its cut, for the rumble's ear). Open: a noise solo (no free black key over white 6: C#4 and D#4 are the
+    kick's and the hats' solos); the lanes' KCK and HAT meters still from the hits (the Arrangement page's from the
+    sound).
   - After the LFO work is merged (both touch ui.c).
 
 - **Song structure, the user's answers** (2026-10-24; the records' intros and outros in REPORT9: 3-37% of the bars,
